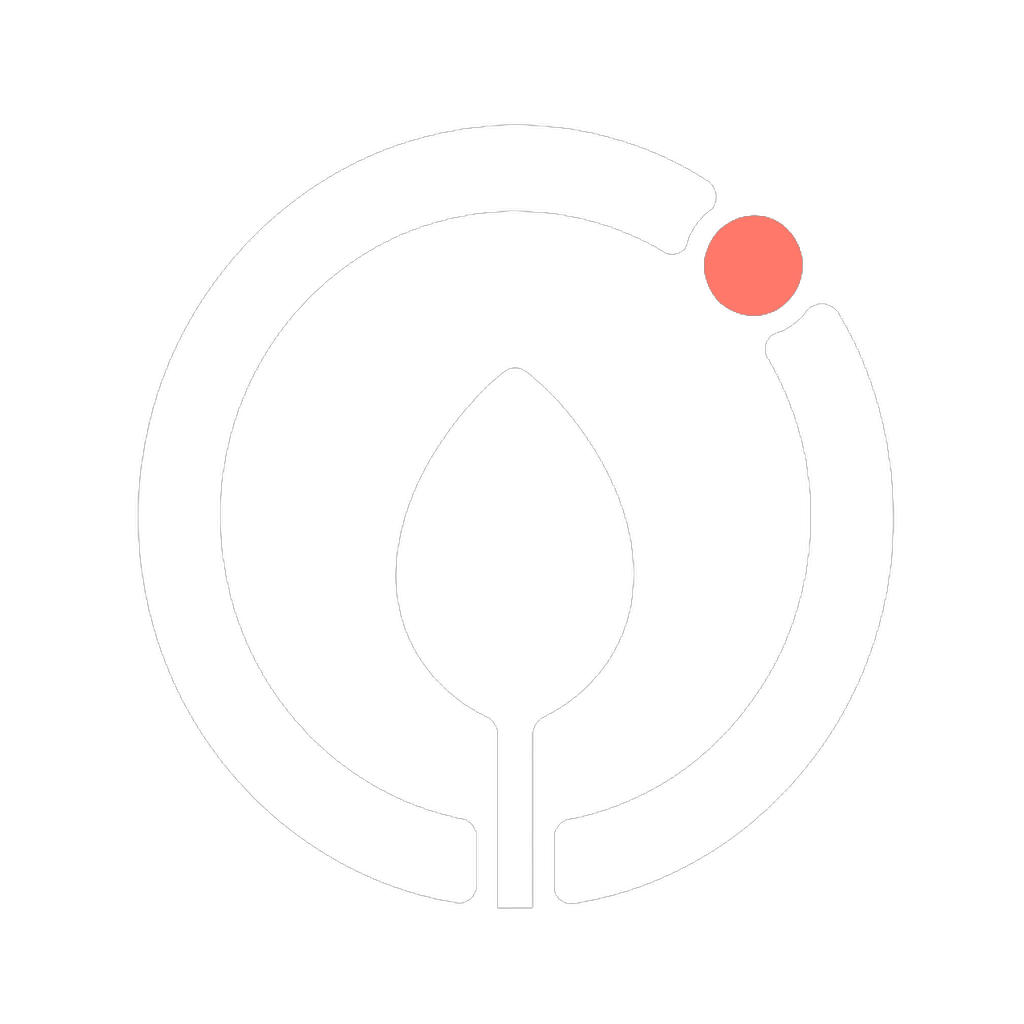
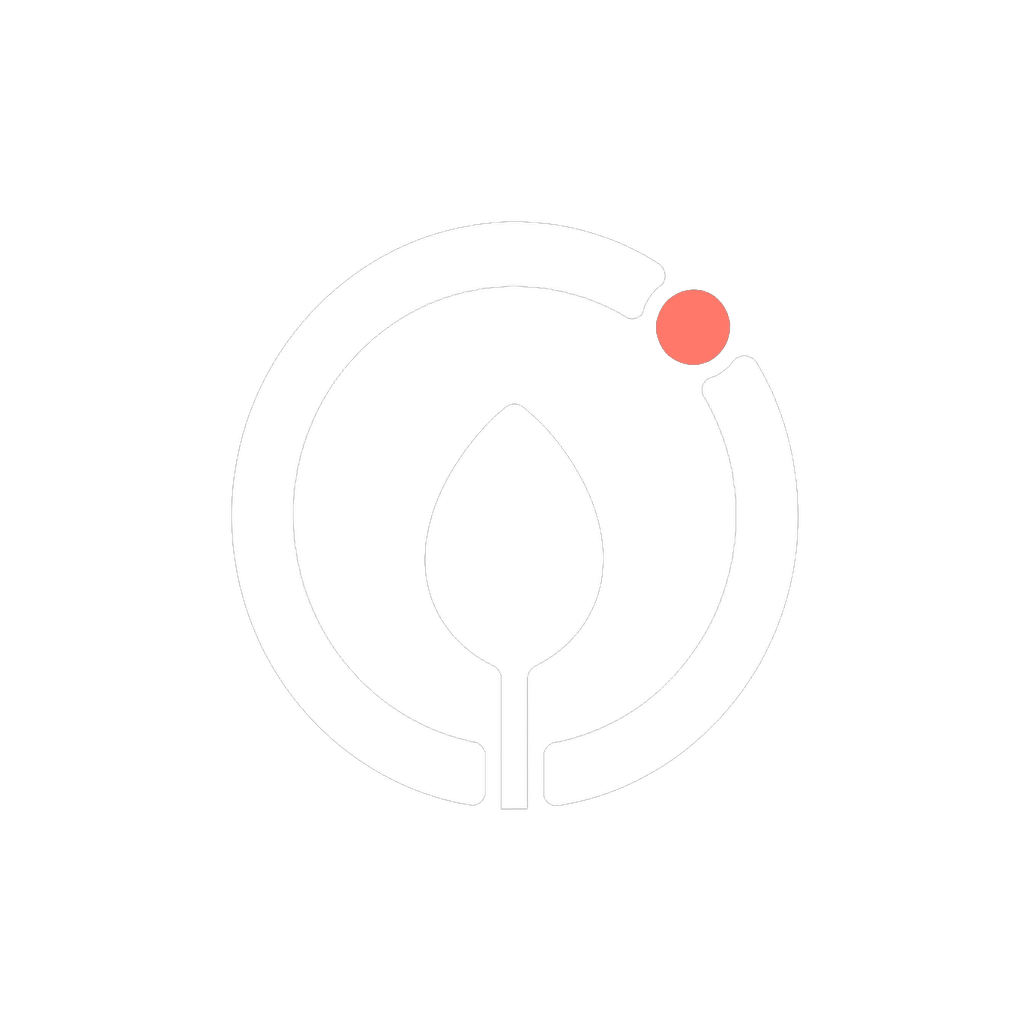
fix(品牌): 修复 Android 自适应图标裁切

Changed region(s): [[0.625, 0.1875, 0.7812, 0.375], [0.5, 0.75, 0.5312, 0.7812]]

diff --git a/design/brand/generate_logo_assets.py b/design/brand/generate_logo_assets.py
@@ -20,6 +20,9 @@ TRANSPARENT = (0, 0, 0, 0)
 # 确认稿中左上大图标的位置固定在这块区域；只提取这一区域可避开字标和色卡。
 SOURCE_ICON_BOX = (192, 59, 964, 831)
 MASTER_SIZE = 1024
+# Adaptive Icon（Android 会按桌面主题裁成不同外形的图标）使用 108×108 的前景层。
+# 各设备只保证中央 66×66 的安全区完整显示；缩小整层后，标志原有的透明边距会让真实轮廓留在区内。
+ADAPTIVE_ICON_MARK_SIZE = round(MASTER_SIZE * 0.75)
 
 APP_EXPORT_SIZES = (1024, 512, 256, 192, 144, 128, 96, 72, 64, 48, 32)
 WATCH_EXPORT_SIZES = (512, 256, 192, 144, 96, 72, 48, 32)
@@ -119,6 +122,18 @@ def create_background_icon(mark: Image.Image, shape: str) -> Image.Image:
     return icon
 
 
+def create_adaptive_icon_foreground(mark: Image.Image) -> Image.Image:
+    foreground = Image.new("RGBA", (MASTER_SIZE, MASTER_SIZE), TRANSPARENT)
+    resized_mark = mark.resize(
+        (ADAPTIVE_ICON_MARK_SIZE, ADAPTIVE_ICON_MARK_SIZE),
+        Image.Resampling.LANCZOS,
+    )
+    offset = (MASTER_SIZE - ADAPTIVE_ICON_MARK_SIZE) // 2
+
+    foreground.alpha_composite(resized_mark, (offset, offset))
+    return foreground
+
+
 def save_png(image: Image.Image, path: Path, size: int | tuple[int, int] | None = None) -> None:
     path.parent.mkdir(parents=True, exist_ok=True)
     output = image
@@ -186,6 +201,8 @@ def main() -> None:
     color_mark = create_mark(white_mask, coral_mask, WHITE)
     dark_mark = create_mark(white_mask, coral_mask, DEEP_GREEN)
     monochrome_mark = create_mark(white_mask, coral_mask, WHITE, coral_color=None)
+    adaptive_color_mark = create_adaptive_icon_foreground(color_mark)
+    adaptive_monochrome_mark = create_adaptive_icon_foreground(monochrome_mark)
 
     square_icon = create_background_icon(color_mark, "square")
     rounded_icon = create_background_icon(color_mark, "rounded")
@@ -215,8 +232,8 @@ def main() -> None:
 
     mobile_assets = REPOSITORY_ROOT / "apps" / "mobile" / "assets" / "branding"
     save_png(square_icon, mobile_assets / "app-icon.png")
-    save_png(color_mark, mobile_assets / "adaptive-icon-foreground.png")
-    save_png(monochrome_mark, mobile_assets / "adaptive-icon-monochrome.png")
+    save_png(adaptive_color_mark, mobile_assets / "adaptive-icon-foreground.png")
+    save_png(adaptive_monochrome_mark, mobile_assets / "adaptive-icon-monochrome.png")
     save_png(create_splash_lockup(color_mark), mobile_assets / "splash-icon.png")
 
     wear_res = REPOSITORY_ROOT / "apps" / "wear" / "app" / "src" / "main" / "res"

diff --git a/design/brand/README.md b/design/brand/README.md
@@ -23,6 +23,7 @@
 ## 使用规则
 
 - 手机和手表启动器优先使用圆环绿背景的彩色版。
+- Android 自适应图标的前景必须留出系统裁切空间，避免圆形或圆角方形桌面图标切掉圆环。
 - 系统主题图标使用单色版，由系统决定最终显示颜色。
 - 浅色页面或宣传图使用深墨绿透明版。
 - 手机启动页使用白色竖向标志与名称，背景使用启动绿；这样系统缩放后仍能同时看清图形和品牌名。
